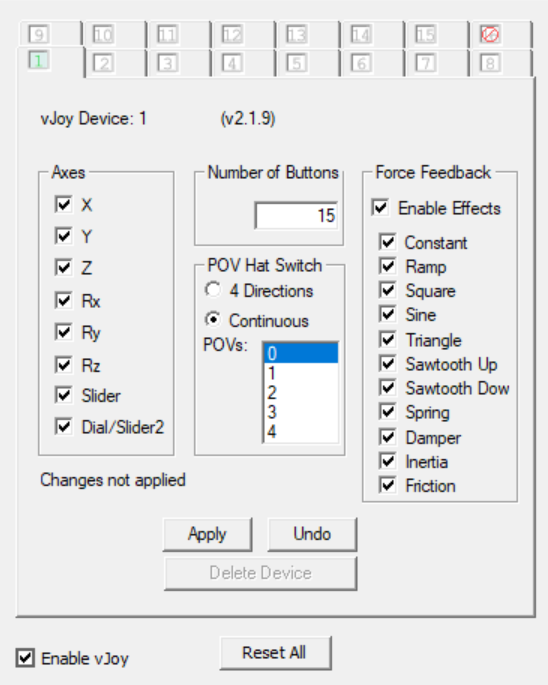
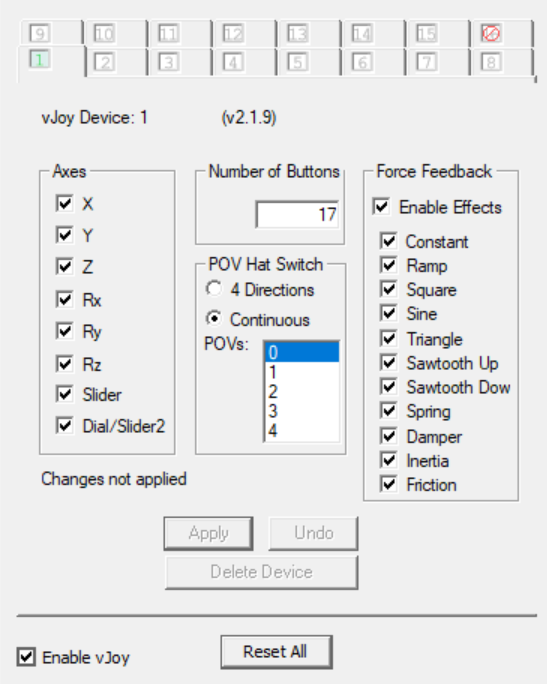
Added all buttons

diff --git a/src/constants.py b/src/constants.py
@@ -26,9 +26,31 @@ DPAD_UP = keyboard.Key.up
 DPAD_DOWN = keyboard.Key.down
 DPAD_RIGHT = keyboard.Key.right
 DPAD_LEFT = keyboard.Key.left
-DPAD = {
+A_BUTTON = keyboard.Key.space
+B_BUTTON = keyboard.Key.tab
+X_BUTTON = keyboard.KeyCode.from_char('r')
+Y_BUTTON = keyboard.KeyCode.from_char('q')
+LEFT_STICK_BUTTON = keyboard.Key.shift_l
+RIGHT_STICK_BUTTON = keyboard.Key.shift_r
+RIGHT_BUMPER = keyboard.KeyCode.from_char('c')
+LEFT_BUMPER = keyboard.KeyCode.from_char('z')
+START = keyboard.KeyCode.from_char('y')
+BACK = keyboard.KeyCode.from_char('t')
+GUIDE = keyboard.KeyCode.from_char('u')
+KEY_BINDINGS = {
     DPAD_UP: 3,
     DPAD_DOWN: 4,
     DPAD_RIGHT: 5,
-    DPAD_LEFT: 6
+    DPAD_LEFT: 6,
+    A_BUTTON: 7,
+    B_BUTTON: 8,
+    X_BUTTON: 9,
+    Y_BUTTON: 10,
+    LEFT_STICK_BUTTON: 11,
+    RIGHT_STICK_BUTTON: 12,
+    RIGHT_BUMPER: 13,
+    LEFT_BUMPER: 14,
+    START: 15,
+    BACK: 16,
+    GUIDE: 17
 }

diff --git a/src/utils.py b/src/utils.py
@@ -27,16 +27,16 @@ def on_press(key):
     if key in LEFT_STICK_BUTTONS:
         left_stick_pressed.add(key)
     left_stick_value_calculator()
-    if key in DPAD:
-        JOYSTICK.set_button(DPAD[key], 1)
+    if key in KEY_BINDINGS:
+        JOYSTICK.set_button(KEY_BINDINGS[key], 1)
 
 def on_release(key):
     '''Defines gamepad behavior on key release'''
     if key in LEFT_STICK_BUTTONS:
         left_stick_pressed.remove(key)
     left_stick_value_calculator()
-    if key in DPAD:
-        JOYSTICK.set_button(DPAD[key], 0)
+    if key in KEY_BINDINGS:
+        JOYSTICK.set_button(KEY_BINDINGS[key], 0)
     if key == QUIT_KEY:
         # Stop listener
         return False
